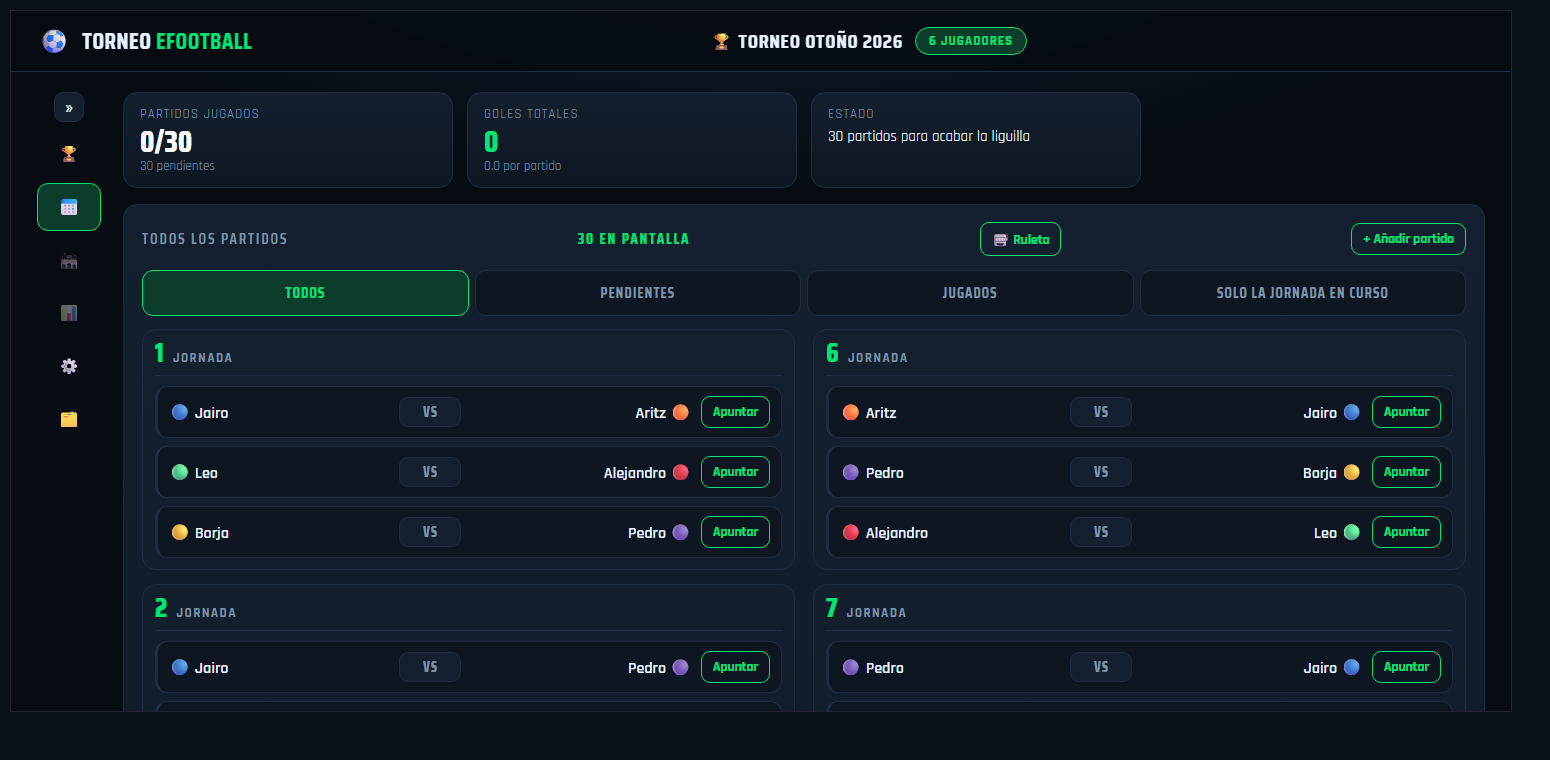
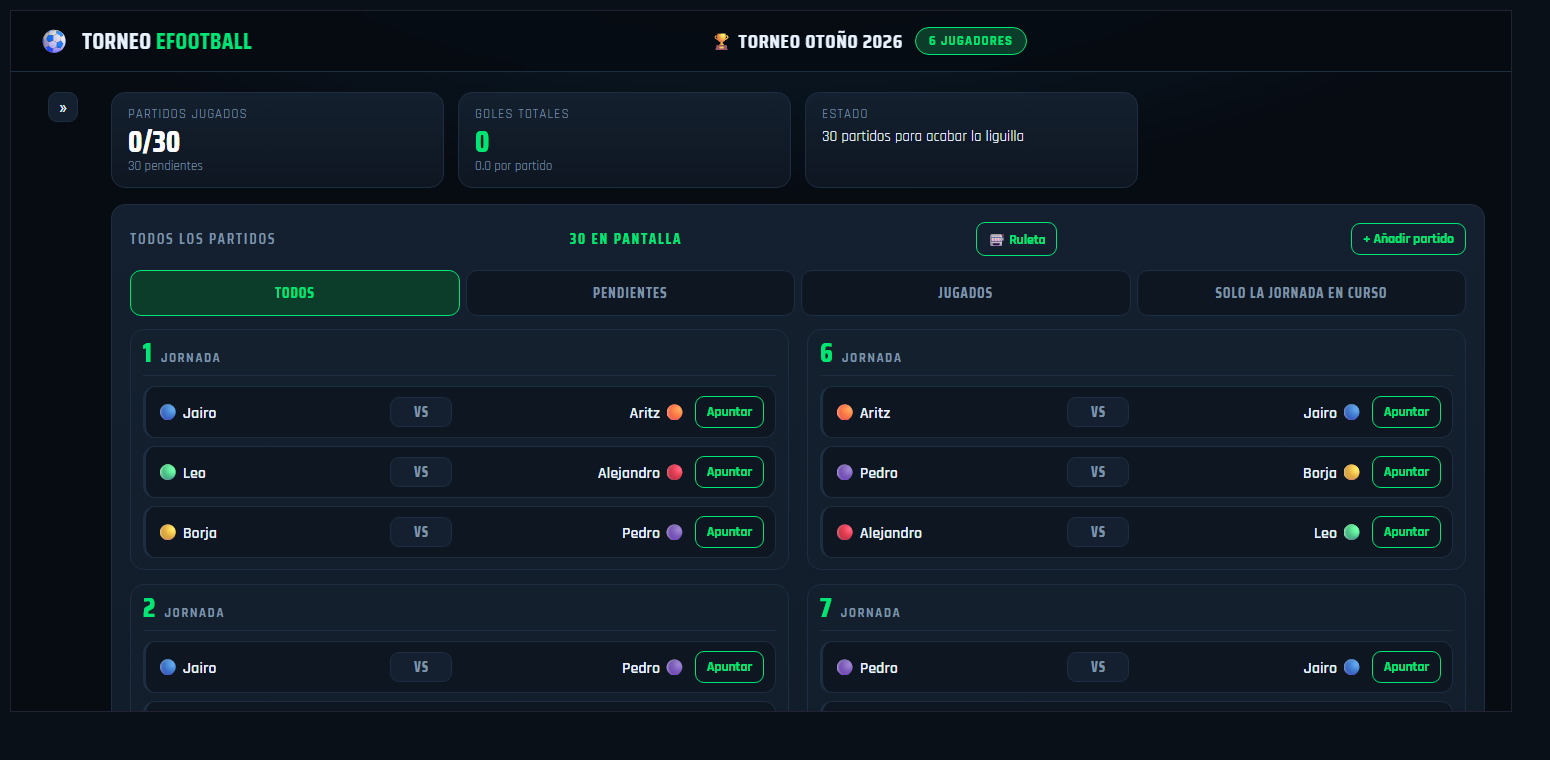
Al plegar el menu lateral se ocultan tambien los emojis (queda solo el boton)

diff --git a/css/estilos.css b/css/estilos.css
@@ -400,13 +400,12 @@ body {
 }
 .btn-plegar:hover { border-color: var(--neon); color: var(--neon); }
 
-/* Con el menú plegado: solo iconos */
+/* Con el menú plegado: se cierra entero (textos y emojis), solo queda el botón */
 .layout { transition: grid-template-columns .16s ease; }
-.layout.plegado { grid-template-columns: 64px minmax(0, 1fr); }
+.layout.plegado { grid-template-columns: 52px minmax(0, 1fr); }
 .sidebar.plegado .sidebar-cabecera { justify-content: center; }
 .sidebar.plegado .sidebar-titulo { display: none; }
-.sidebar.plegado .nav-item .texto { display: none; }
-.sidebar.plegado .nav-item { justify-content: center; padding-left: 0; padding-right: 0; }
+.sidebar.plegado nav { display: none; }
 .sidebar.plegado .sidebar-pie { display: none; }
 /* La pastilla del modo de datos va en su propia línea, si no se pega al texto */
 .sidebar-pie .nota { display: block; margin-bottom: 10px; }

diff --git a/docs/prueba-flujo.html b/docs/prueba-flujo.html
@@ -166,6 +166,9 @@ document.getElementById('marco').onload = async () => {
     ok('al plegarlo, el menú se queda solo con los iconos',
        sidebar.classList.contains('plegado') && d.querySelector('.layout').classList.contains('plegado'),
        Math.round(anchoAntes) + 'px → ' + Math.round(sidebar.getBoundingClientRect().width) + 'px');
+    ok('al plegarlo tampoco se ven los emojis del menú',
+       d.defaultView.getComputedStyle(sidebar.querySelector('nav')).display === 'none',
+       'nav oculto');
 
     botonPlegar.click();
     await esperar(500);
